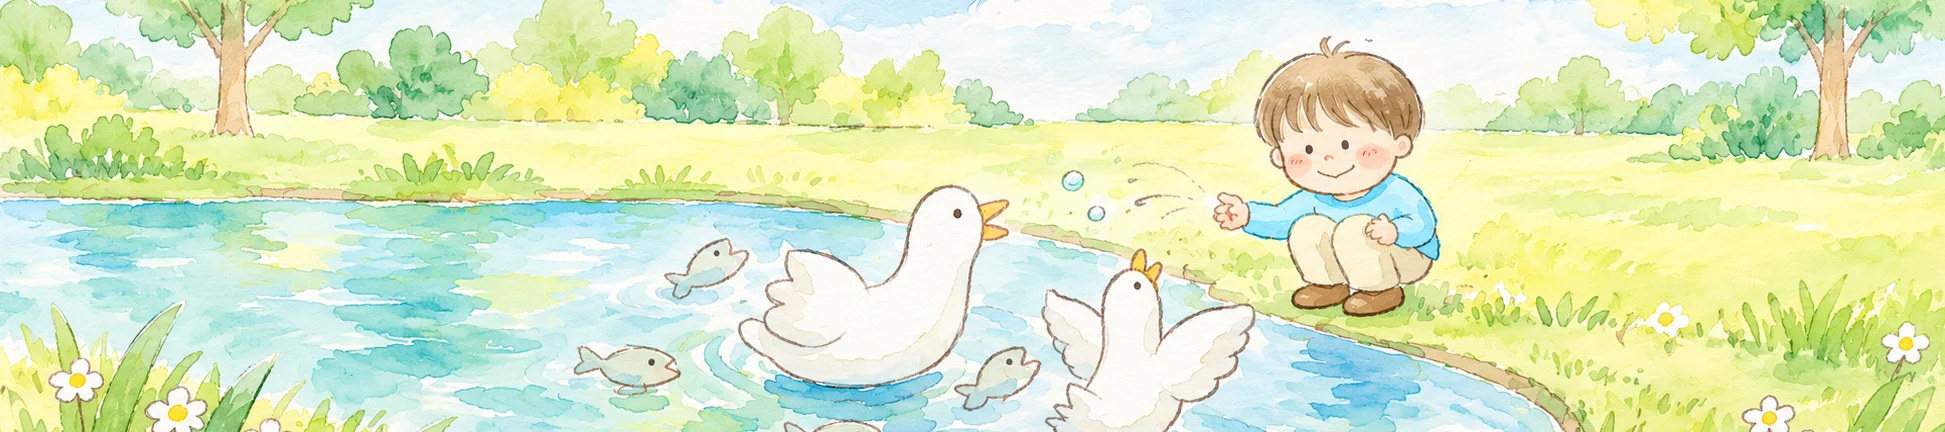
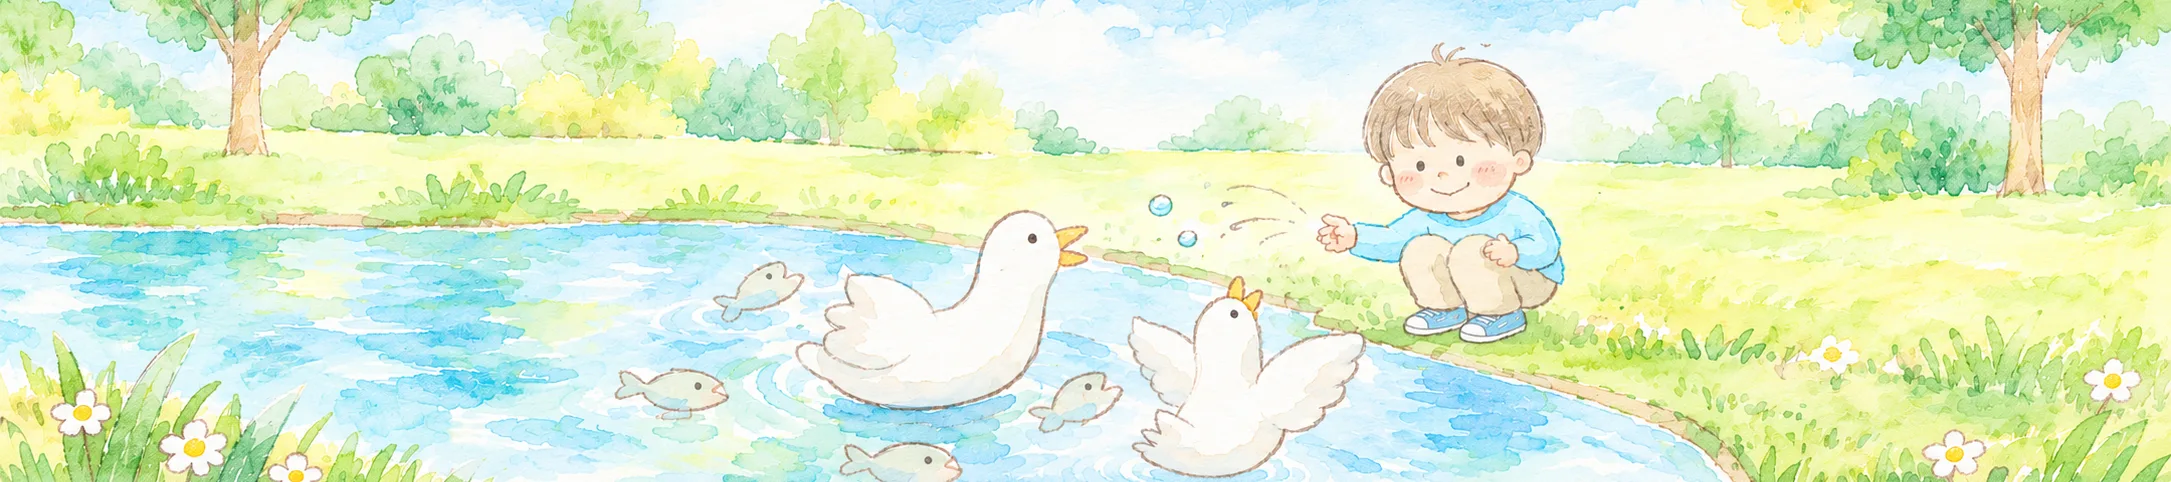
feat: 池と噴水の絵を描きなおした絵に差しかえ
- 池（play-pond.webp）と噴水（event-fountain-spray.webp）を新しい絵にした
- 上下の白い余白と、塗りが半分のふちの行を切り、ほかの場面の絵と同じ 4.5:1 にした
  - 池は上の空をけずり、下の魚とアヒルまで入る位置
  - 噴水は水しぶきの先からこうちゃんのくつまで入る

diff --git a/data/places.ts b/data/places.ts
@@ -32,7 +32,7 @@ export const placeBannerImages = {
   slide: { src: '/images/commands/play-slide.webp', ratio: '2660 / 591' },
   sandbox: { src: '/images/commands/play-sandbox.webp', ratio: '2660 / 591' },
   acornArea: { src: '/images/commands/play-acorn-tree.webp', ratio: '2164 / 727' },
-  pond: { src: '/images/commands/play-pond.webp', ratio: '1945 / 432' },
+  pond: { src: '/images/commands/play-pond.webp', ratio: '2171 / 482' },
   grassArea: { src: '/images/commands/play-lawn.webp', ratio: '2172 / 724' },
   secretSpot: { src: '/images/commands/play-komorebi-plaza.webp', ratio: '2171 / 482' },
   restArea: { src: '/images/commands/break.webp', ratio: '2660 / 591' },

diff --git a/data/game.ts b/data/game.ts
@@ -22,7 +22,7 @@ export const suddenEventBannerImages = {
   ladybug: { src: '/images/events/event-ladybug-found.webp', ratio: '2048 / 455' },
   dog: { src: '/images/events/event-dog-appears.webp', ratio: '2660 / 591' },
   fallDown: { src: '/images/events/event-fall-down.webp', ratio: '2048 / 455' },
-  fountain: { src: '/images/events/event-fountain-spray.webp', ratio: '1881 / 418' },
+  fountain: { src: '/images/events/event-fountain-spray.webp', ratio: '2160 / 480' },
 } satisfies Partial<Record<GameEvent, BannerImage>>;
 
 /* ===== ゲージのしきい値（目もり） =====
